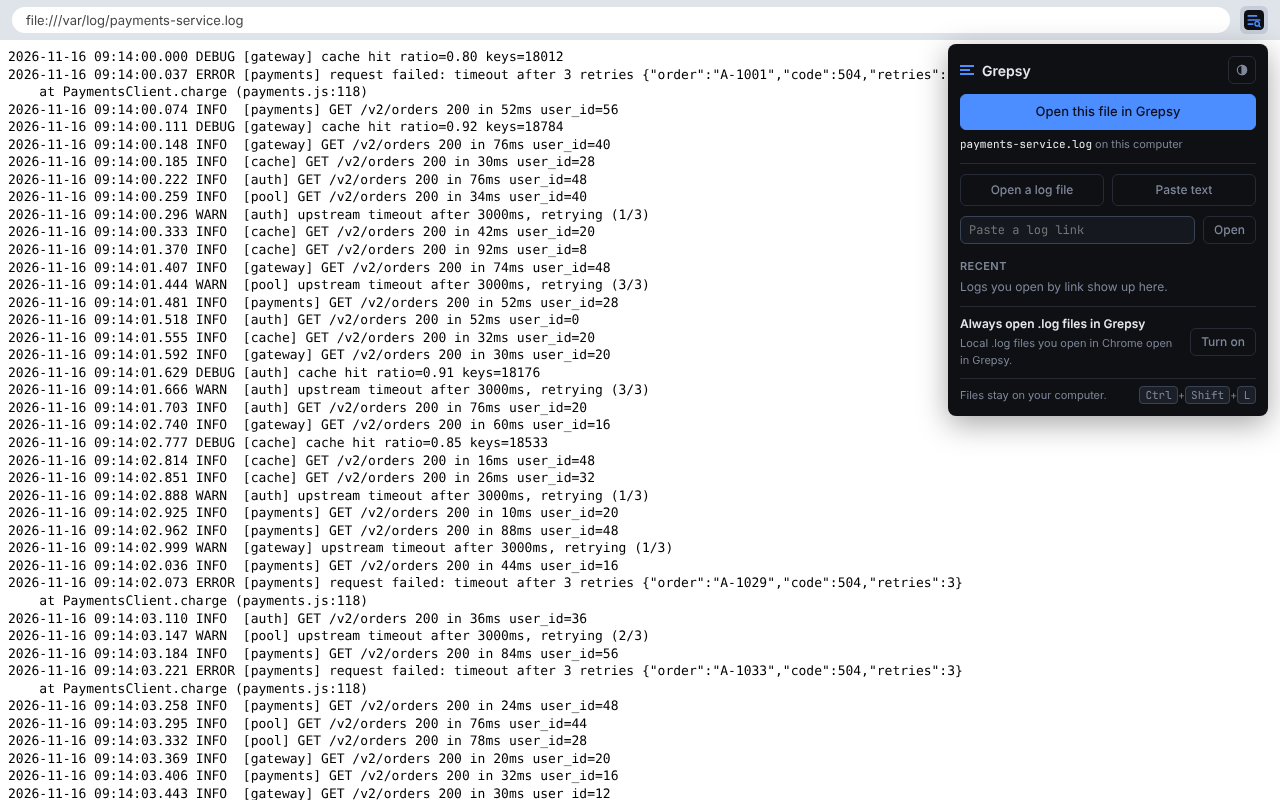
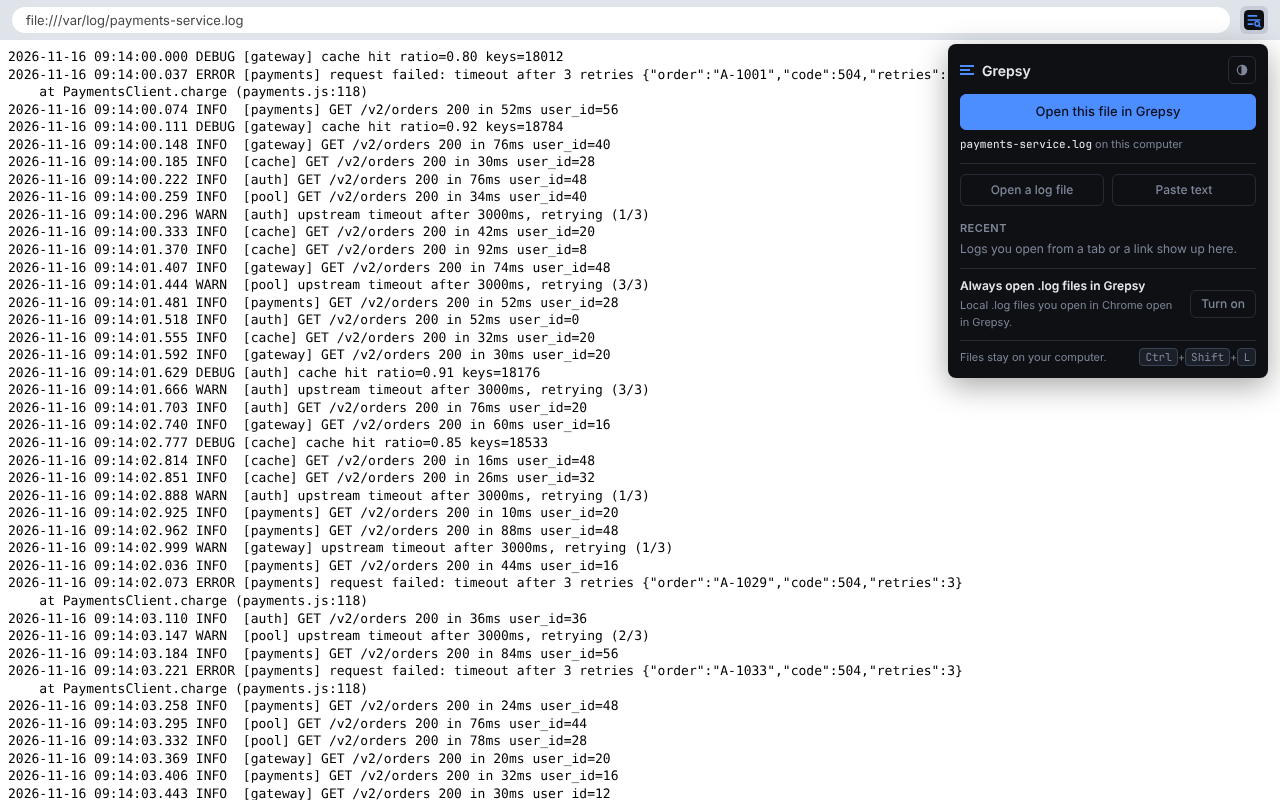
Drop the popup's link box; links open from their tab
Pasting a link into the address bar and clicking "Open this file in
Grepsy" does the same thing. Download-only links still open from the
viewer's "Open a URL".

Claude-Session: https://claude.ai/code/session_01CYzjjJaDhTSnbJjVdnCbJZ

Changed region(s): [[0.7188, 0.2812, 1.0, 0.5625]]

diff --git a/src/popup/main.ts b/src/popup/main.ts
@@ -1,7 +1,6 @@
 import {
   forgetRecent,
   loadRecent,
-  parseUrlInput,
   recentSource,
   timeAgo,
   viewerPath,
@@ -27,9 +26,6 @@ setupTheme();
  * its content type; no tab access is held otherwise.
  */
 const $ = <T extends HTMLElement>(id: string) => document.getElementById(id) as T;
-const urlForm = $<HTMLFormElement>('url-form');
-const urlInput = $<HTMLInputElement>('url');
-const urlError = $('url-error');
 const list = $<HTMLUListElement>('recent');
 const empty = $('recent-empty');
 
@@ -44,21 +40,6 @@ if (/Mac/i.test(navigator.platform)) {
 
 $('open-file').addEventListener('click', () => openViewer(viewerPath()));
 $('open-paste').addEventListener('click', () => openViewer(viewerPath({ paste: true })));
-
-urlForm.addEventListener('submit', (e) => {
-  e.preventDefault();
-  const url = parseUrlInput(urlInput.value);
-  if (!url) {
-    urlError.textContent = 'Enter an http, https or file link.';
-    urlError.hidden = false;
-    urlInput.focus();
-    return;
-  }
-  openViewer(viewerPath({ src: url }));
-});
-urlInput.addEventListener('input', () => {
-  urlError.hidden = true;
-});
 
 function drawRecent(items: RecentLog[]): void {
   const now = Date.now();

diff --git a/test/recent.test.ts b/test/recent.test.ts
@@ -5,7 +5,6 @@ import {
   forgetRecent,
   loadRecent,
   parseRecent,
-  parseUrlInput,
   recentSource,
   rememberRecent,
   removeRecent,
@@ -99,24 +98,6 @@ describe('recent log labels', () => {
     expect(timeAgo(now - 3 * HOUR, now)).toBe('3h ago');
     expect(timeAgo(now - 2 * DAY, now)).toBe('2d ago');
     expect(timeAgo(now - 30 * DAY, now)).not.toMatch(/ago/);
-  });
-});
-
-describe('popup link box', () => {
-  it('accepts web and file links', () => {
-    expect(parseUrlInput('  https://x.dev/a.log ')).toBe('https://x.dev/a.log');
-    expect(parseUrlInput('file:///var/log/a.log')).toBe('file:///var/log/a.log');
-  });
-
-  it('reads a bare host and path as https', () => {
-    expect(parseUrlInput('x.dev/logs/a.log')).toBe('https://x.dev/logs/a.log');
-  });
-
-  it('rejects empty and unsupported links', () => {
-    expect(parseUrlInput('')).toBeNull();
-    expect(parseUrlInput('   ')).toBeNull();
-    expect(parseUrlInput('javascript:alert(1)')).toBeNull();
-    expect(parseUrlInput('ftp://x.dev/a.log')).toBeNull();
   });
 });
 

diff --git a/src/popup.html b/src/popup.html
@@ -24,16 +24,10 @@
     <button type="button" class="tool-btn primary" id="open-file">Open a log file</button>
     <button type="button" class="tool-btn" id="open-paste">Paste text</button>
   </div>
-  <form class="url-box" id="url-form" novalidate>
-    <label for="url" class="sr-only">Log link</label>
-    <input id="url" type="text" placeholder="Paste a log link" autocomplete="off" spellcheck="false">
-    <button class="tool-btn">Open</button>
-  </form>
-  <p class="popup-error" id="url-error" role="alert" hidden></p>
   <section aria-labelledby="recent-title">
     <h2 class="popup-label" id="recent-title">Recent</h2>
     <ul class="recent" id="recent"></ul>
-    <p class="muted popup-empty" id="recent-empty" hidden>Logs you open by link show up here.</p>
+    <p class="muted popup-empty" id="recent-empty" hidden>Logs you open from a tab or a link show up here.</p>
   </section>
   <section class="popup-auto" id="auto-open" aria-labelledby="auto-open-title">
     <div class="popup-auto-row">

diff --git a/src/core/recent.ts b/src/core/recent.ts
@@ -92,13 +92,3 @@ export function viewerPath(open?: { src: string } | { paste: true }): string {
   return 'viewer.html?paste=1';
 }
 
-/**
- * What the user typed into the popup's link box, as a URL the viewer can
- * load, or null. A bare "example.com/app.log" is read as https.
- */
-export function parseUrlInput(text: string): string | null {
-  const t = text.trim();
-  if (!t) return null;
-  const withScheme = /^[a-z][a-z0-9+.-]*:/i.test(t) ? t : `https://${t}`;
-  return isLoadableSource(withScheme) ? new URL(withScheme).href : null;
-}

diff --git a/docs/adr/0007-open-current-tab.md b/docs/adr/0007-open-current-tab.md
@@ -13,7 +13,7 @@ People often already have a log open in a tab: a local `.log` or `.txt` shown by
 - For local files Chrome blocks scripts until "Allow access to file URLs" is on, so the content type can't be read. There the offer falls back to log-like names (`.log`, `.log.N`, `.txt`, `.out`, `.err`, `.jsonl`, `.ndjson`).
 - **Open this file in Grepsy** replaces the tab with `viewer.html?src=<url>` (the back button returns to the plain view). The viewer downloads the file as for any link, so it still needs the site's optional host permission (ADR 5), or `file:///*` plus the file-access toggle for local files. The popup asks for that permission on the click; for local files with the toggle off, it shows the step and a button to the extension's settings first.
 - Chrome may close the popup while its permission prompt is up. The popup first writes the request to `chrome.storage.session`; the background script completes it on `permissions.onAdded` if the popup is gone (requests older than a minute are dropped).
-- The link box stays, below the main actions, for logs not yet open in a tab. It also feeds the Recent list.
+- The popup's link box is removed: pasting a link into the address bar and clicking the button does the same. Links a server only offers as a download (which never show in a tab) still open from the viewer's "Open a URL". Logs opened from a tab go through `?src=`, so they still land in Recent.
 
 ## Consequences
 

diff --git a/README.md b/README.md
@@ -15,7 +15,7 @@ npm run e2e      # load dist/ in Chromium and click through the viewer
 
 ## Using it
 
-- **Open:** click the toolbar icon (or press `Ctrl+Shift+L`) for a small popup: open a file, paste text, paste a log link, or reopen a recent log. Each opens the viewer in a tab, where you can also drop a file. Gzipped logs (`.gz`) are decompressed automatically.
+- **Open:** click the toolbar icon (or press `Ctrl+Shift+L`) for a small popup. If the tab shows a plain text log, **Open this file in Grepsy** turns that tab into the viewer. You can also open a file, paste text, reopen a recent log, or turn on "Always open .log files in Grepsy". The viewer also takes dropped files and log URLs. Gzipped logs (`.gz`) are decompressed automatically.
 - **Open .log files automatically (optional):** turn it on from the start screen. The extension then asks for file access, and `.log` files you open in the browser go straight to Grepsy.
 - **Search:** type in the search box. `Aa` matches case and `.*` switches to a regular expression.
 - **Filter:** turn on **Filter** to hide lines that don't match. Pick **context ±2/±5** to keep lines around each match, and click a "lines hidden" row to reveal it.

diff --git a/docs/adr/0006-toolbar-popup.md b/docs/adr/0006-toolbar-popup.md
@@ -8,7 +8,7 @@ Clicking the toolbar icon used to open a new viewer tab straight away. That cost
 
 ## Decision
 
-- The icon (and `Ctrl+Shift+L`) shows `popup.html`: **Open a log file**, **Paste text**, a link box, and up to 8 **recent** logs. Every action opens the viewer in a tab and closes the popup.
+- The icon (and `Ctrl+Shift+L`) shows `popup.html`: **Open a log file**, **Paste text**, a link box (removed in [ADR 7](0007-open-current-tab.md)), and up to 8 **recent** logs. Every action opens the viewer in a tab and closes the popup.
 - The popup never reads a file. Chrome closes a popup when a file chooser takes focus, so the `change` event would be lost; "Open a log file" hands off to the viewer's start screen.
 - The popup passes work to the viewer through its URL: `?src=<link>` or `?paste=1`. No messaging or shared state is needed, and reloading the tab repeats the action.
 - Recent logs are only those opened by link (web URLs, and local `file://` logs sent by auto-open). A picked or pasted file can't be reopened without the user choosing it again, so it isn't listed rather than listed and broken. Only the link, its file name and a time are stored, in `chrome.storage.local`.
